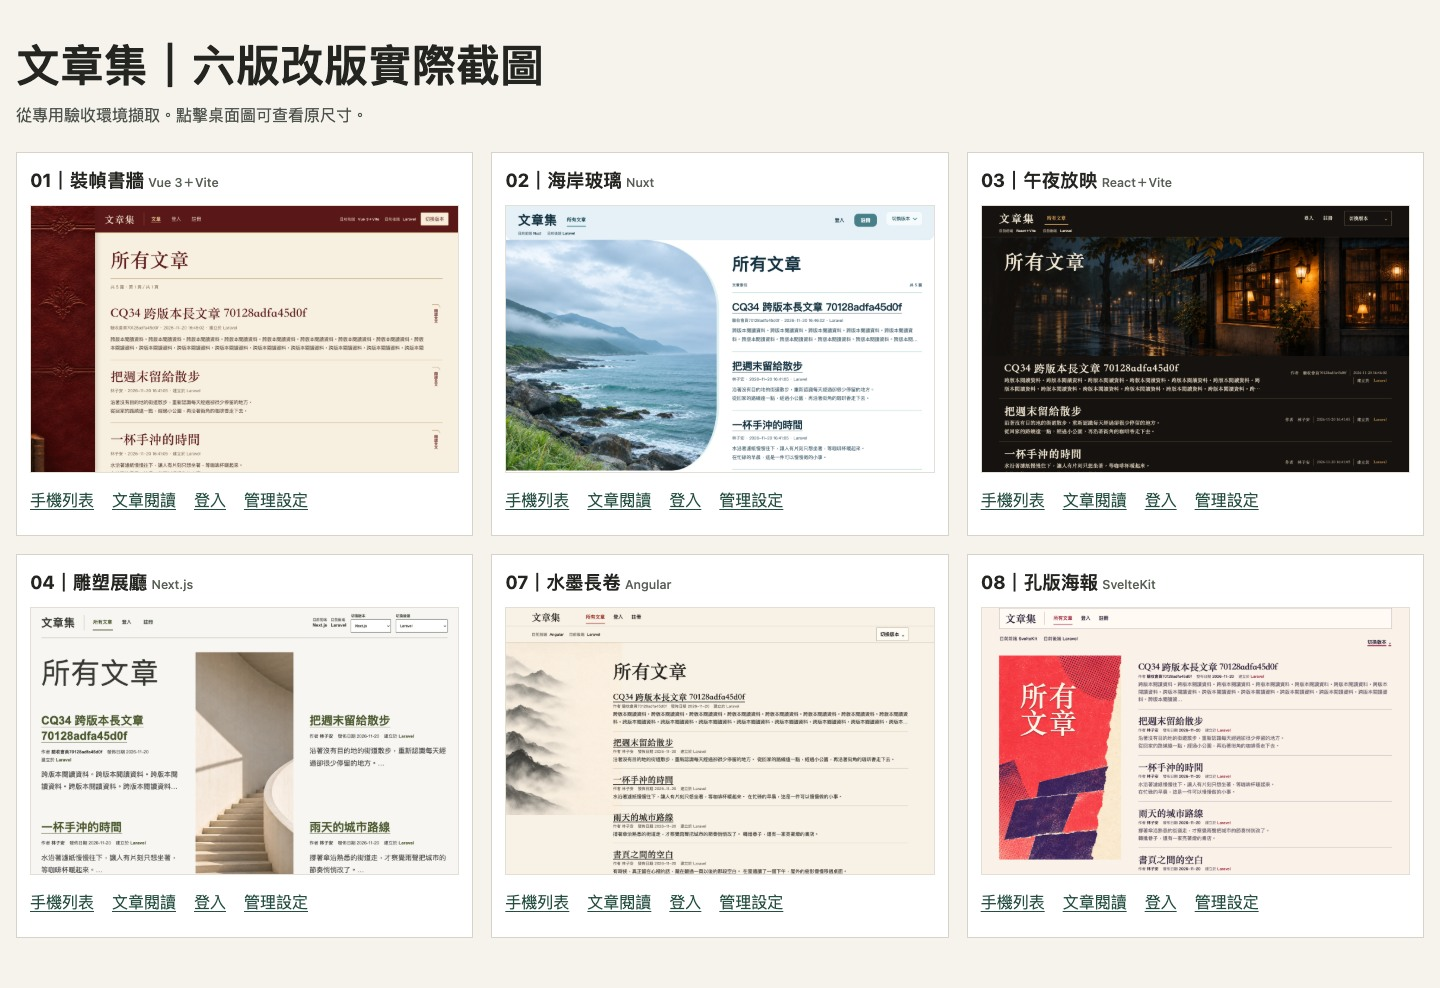
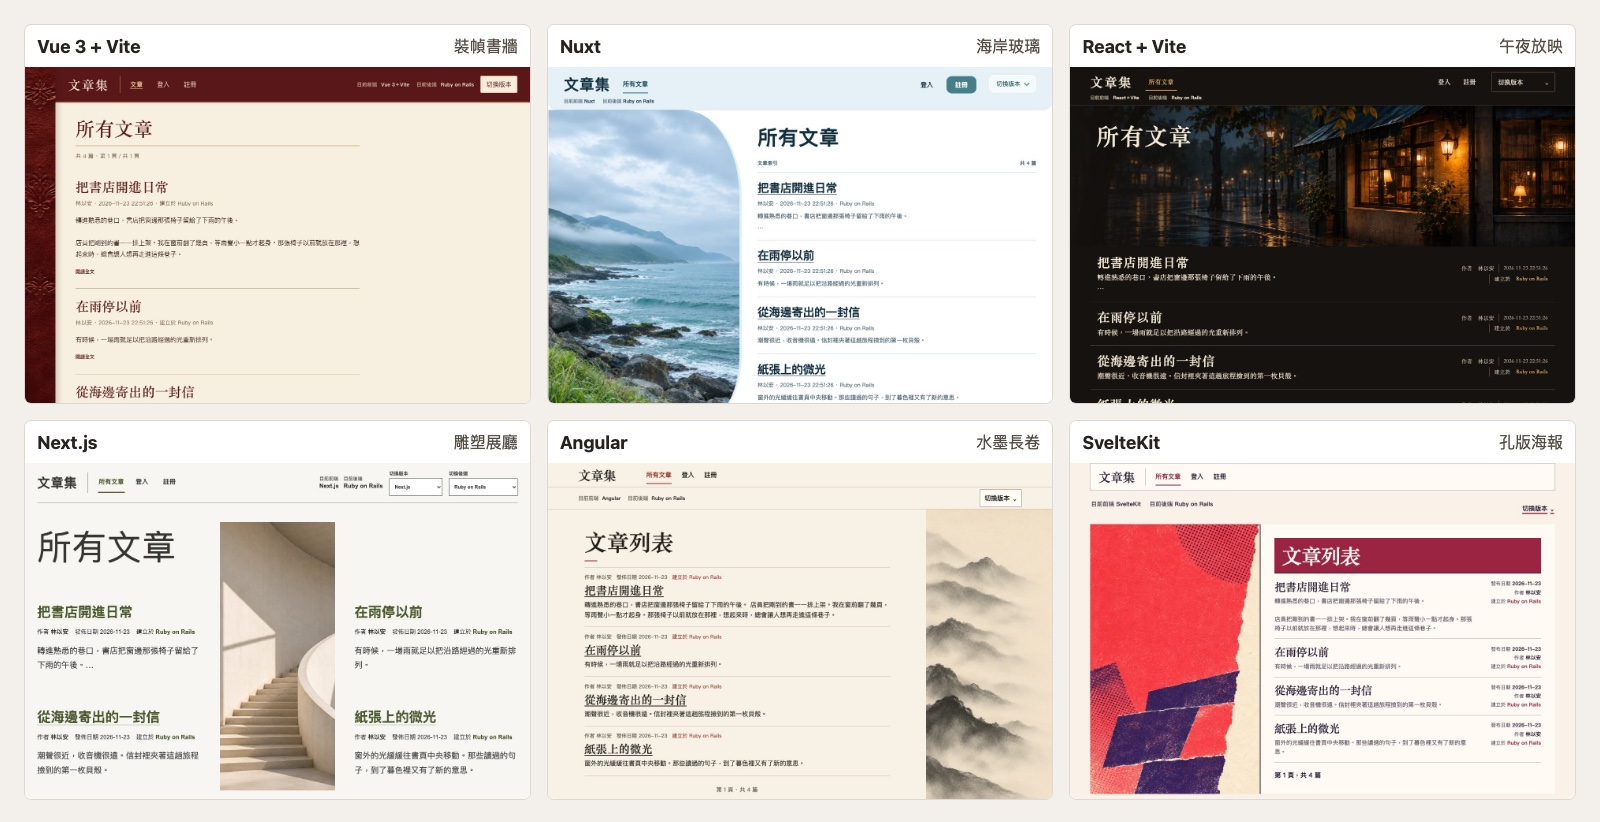
docs: 更新本機展示指南與六版驗證紀錄

diff --git a/README.md b/README.md
@@ -1,10 +1,12 @@
 # 文章集｜AI-workflow-fullstack
 
-一套可在本機操作的會員文章與留言網站，用來比較不同框架如何實作同一套功能。**六種前端與十三種後端可獨立切換、自由搭配，共 78 種組合、19 個版本。** 所有組合透過同一份 API 契約存取同一個 PostgreSQL 資料庫。
+文章集是可在本機操作的會員文章與留言網站，用來比較不同框架如何實作同一套功能。**六種前端與十三種後端可獨立切換，共 78 種搭配。** 所有搭配透過同一份 API 契約讀寫同一個 PostgreSQL 資料庫。
+
+[使用技術](#使用技術) · [本機啟動](#本機啟動) · [如何測試](#如何測試)
 
 ![文章集的六個桌面版文章列表，依序為裝幀書牆、海岸玻璃、午夜放映、雕塑展廳、水墨長卷與孔版海報](docs/images/frontend-overview.jpg)
 
-*六種版型以同一批合成文章在本機展示。*
+*六種版型的實際畫面，使用同一批合成文章。*
 
 ## 主要功能
 
@@ -17,40 +19,38 @@
 
 ### 六種前端
 
-六版使用 JavaScript 或 TypeScript，由 NGINX 提供同一個入口 `http://localhost:8080`。每版有自己的視覺風格與頁面路徑。
+六版共用 Node.js 24.21.0 作為容器建置環境。NGINX 將六版放在同一個入口 `http://localhost:8080` 下。
 
-| 前端 | 視覺風格 | 頁面路徑 |
-| --- | --- | --- |
-| Vue 3 + Vite | 裝幀書牆 | `/vue/` |
-| Nuxt | 海岸玻璃 | `/nuxt/` |
-| React + Vite | 午夜放映 | `/react/` |
-| Next.js | 雕塑展廳 | `/next/` |
-| Angular | 水墨長卷 | `/angular/` |
-| SvelteKit | 孔版海報 | `/sveltekit/` |
+| 前端 | 技術 | 視覺風格 | 頁面路徑 |
+| --- | --- | --- | --- |
+| Vue 3 + Vite | JavaScript、Vue 3 單檔元件、Vite | 裝幀書牆 | `/vue/` |
+| Nuxt | JavaScript、Vue 3、Nuxt 4 | 海岸玻璃 | `/nuxt/` |
+| React + Vite | JavaScript、JSX、React 19、Vite | 午夜放映 | `/react/` |
+| Next.js | JavaScript、JSX、React 19、Next.js 16 App Router | 雕塑展廳 | `/next/` |
+| Angular | TypeScript、Angular 21、Angular CLI | 水墨長卷 | `/angular/` |
+| SvelteKit | JavaScript、Svelte 5、SvelteKit 2、Vite、Node adapter | 孔版海報 | `/sveltekit/` |
 
 ### 十三種後端
 
-| 後端 | 語言或執行環境 | API 基底位址 |
+| 後端 | 語言與容器執行環境 | API 基底位址 |
 | --- | --- | --- |
-| Laravel | PHP | `http://localhost:8081` |
-| Symfony | PHP | `http://localhost:8082` |
-| ASP.NET Core Controllers | C# | `http://localhost:8083` |
-| Django | Python | `http://localhost:8084` |
-| Flask | Python | `http://localhost:8085` |
-| FastAPI | Python | `http://localhost:8086` |
-| Gin | Go | `http://localhost:8087` |
-| Echo | Go | `http://localhost:8088` |
-| Fiber | Go | `http://localhost:8089` |
-| Express | Node.js | `http://localhost:8090` |
-| Fastify | Node.js | `http://localhost:8091` |
-| NestJS | Node.js | `http://localhost:8092` |
-| Ruby on Rails | Ruby | `http://localhost:8093` |
+| Laravel | PHP 8.4 | `http://localhost:8081` |
+| Symfony | PHP 8.4 | `http://localhost:8082` |
+| ASP.NET Core Controllers | C#、.NET 10 | `http://localhost:8083` |
+| Django | Python 3.13 | `http://localhost:8084` |
+| Flask | Python 3.13 | `http://localhost:8085` |
+| FastAPI | Python 3.13 | `http://localhost:8086` |
+| Gin | Go 1.26 | `http://localhost:8087` |
+| Echo | Go 1.26 | `http://localhost:8088` |
+| Fiber | Go 1.26 | `http://localhost:8089` |
+| Express | JavaScript、Node.js 24 | `http://localhost:8090` |
+| Fastify | JavaScript、Node.js 24 | `http://localhost:8091` |
+| NestJS | JavaScript、Node.js 24 | `http://localhost:8092` |
+| Ruby on Rails | Ruby 4.0 | `http://localhost:8093` |
 
 ### 共用資料庫與 API
 
-六個前端透過目前選用的後端讀寫資料。十三種後端遵守相同的 22 個 API 操作，讀寫**同一個 PostgreSQL 資料庫**。帳號、文章、留言與登入鎖定設定因此在各版本共用。資料庫結構由集中維護的版本化 SQL 更新。 [系統架構](docs/architecture.md) · [API 文件](docs/article-api.md)
-
-本機環境使用 Docker Compose，驗證涵蓋框架測試、HTTP／PostgreSQL 契約測試與 Playwright／Chrome 瀏覽器測試。
+Docker Compose 啟動六個前端、十三個後端、NGINX 1.30 與 PostgreSQL 18。十三個後端提供相同的 22 個 API 操作，共用帳號、文章、留言與登入鎖定設定。資料庫結構由集中維護的版本化 SQL 更新。 [系統架構](docs/architecture.md) · [API 文件](docs/article-api.md)
 
 ## 前後端如何切換
 
@@ -59,7 +59,7 @@
 | 操作 | 切換後的行為 |
 | --- | --- |
 | **換前端** | 同一分頁會開啟對應頁面，並保留目前後端與有效登入。登入期限沿用原到期時間。例如 `/vue/articles/101` 切到 Nuxt 後會開啟 `/nuxt/articles/101`。 |
-| **換後端** | 保留目前前端，清除舊憑證並前往登入頁。可用原帳號重新登入，在權限允許時回到原目標頁。各後端只接受自己簽發的 JWT，既有的登入鎖定也會在新後端生效。 |
+| **換後端** | 保留目前前端並清除舊憑證。接下來要使用會員或管理功能時，請用原帳號重新登入。各後端只接受自己簽發的 JWT，既有的登入鎖定也會在新後端生效。 |
 
 ### 切換限制
 
@@ -70,42 +70,36 @@
 
 [前後端選擇與頁面對照](docs/user-guide.md#選擇畫面與後端)
 
-## 本機啟動、停止與重設
+## 本機啟動
 
-以下指令在專案根目錄執行。需要 macOS、Linux 或 Windows WSL2 的 POSIX shell、已啟動的 Docker daemon、支援 `docker compose up --wait` 的 Compose plugin，以及主機上的 `sh` 和 OpenSSL；本次只在 macOS 實測，其他平台尚未確認。首次建置需要網路下載容器映像與套件，且本機連接埠 `8080`–`8093` 需可使用。
-
-先取得專案，再進入專案根目錄：
-
-```sh
-git clone https://github.com/a9088391/AI-workflow-fullstack.git
-cd AI-workflow-fullstack
-```
-
-主機不需安裝各語言的 SDK，也不需取得作者的備份或金鑰。首次設定會為這個本機安裝建立自己的資料庫設定、應用金鑰及後端金鑰，並提示輸入管理員 Email、暱稱與密碼；密碼須為 4–16 碼 ASCII 英文字母或數字，沒有預設管理員帳密。空資料庫一開始沒有文章，管理員登入後可自行發文，或註冊一般會員。既有安裝請保留原有 `.env` 與 `.local/keys/`，不要刪除它們來強制產生新金鑰。
+準備 Git、`sh`、OpenSSL、已啟動的 Docker，以及支援 `docker compose up --wait` 的 Compose plugin。請預留本機連接埠 `8080`–`8093`，首次建置需要網路下載映像與套件。主機只需上述工具，語言環境由容器提供。啟停流程已在 macOS 實測，Linux 與 Windows WSL2 待實機驗證。
 
 ### 首次啟動
 
 ```sh
+git clone https://github.com/a9088391/AI-workflow-fullstack.git &&
+cd AI-workflow-fullstack &&
 ./ops/setup.sh
 ```
 
-依終端提示建立第一位管理員。設定完成後開啟 [本機展示站](http://localhost:8080/)，預設使用 Vue 3 + Vite 與 Laravel。一般會員可從畫面註冊。
+第一次會建立本機資料庫設定與金鑰，並提示輸入管理員 Email、暱稱及 4–16 碼 ASCII 英數密碼。等指令完成後開啟 [本機展示站](http://localhost:8080/)，預設是 Vue 3 + Vite 搭配 Laravel。空資料庫可直接註冊一般會員，也可以用剛建立的管理員登入並發表第一篇文章。
 
-### 停止與重新啟動
+### 日常啟停與狀態查詢
+
+以下指令各自從專案根目錄執行。
 
 ```sh
+# 啟動完整展示站並等待服務就緒
+./ops/start.sh
+
+# 列出所有使用中的前後端與健康狀態
+docker compose --profile '*' ps
+
+# 停止並移除容器與 Compose 網路，保留資料卷與金鑰
 ./ops/stop.sh
 ```
 
-`stop.sh` 會停止並移除本機容器及 Compose 網路，保留 PostgreSQL 資料卷與本機金鑰。需要繼續使用時，執行日常啟動指令。
-
-```sh
-./ops/start.sh
-```
-
-一般入口會等待 DB、SQL、十三個後端、六個前端及 NGINX 就緒。Rails 故障時，可執行 `./ops/start.sh --without-rails` 暫用十二後端模式；修復後再執行 `./ops/start.sh` 恢復十三版。此模式不重設資料或金鑰，SQL 版本與 checksum 保護維持不變。
-
-需要查看服務狀態時可執行 `docker compose ps`。
+既有安裝請保留 `.env` 與 `.local/keys/`。只開發 API 時可執行 `./ops/start.sh --backend-only`。Rails 暫時不可用時，執行 `./ops/start.sh --without-rails` 啟動其餘十二個後端與六版前端，修復後用一般啟動指令恢復十三版。
 
 ### 重設管理員密碼
 
@@ -121,33 +115,69 @@ unset admin_password admin_email
 
 ## 如何測試
 
-### 手動驗證
+### 瀏覽器手動驗證
 
-1. 開啟展示站，註冊一般會員並登入。發表文章後進入文章詳情，新增一則留言。
+1. 開啟本機展示站，註冊測試會員並登入。發表文章後進入文章詳情，新增一則留言。
 2. 留在同一分頁，從工具列切換前端，確認同一篇文章、留言與登入狀態都能讀取。
 3. 切換後端，確認畫面要求重新登入。登入後核對原文章與留言。
-4. 使用首次設定建立的管理員登入，開啟會員管理與登入鎖定設定，確認可以搜尋會員及讀取目前的鎖定設定。
+4. 登出測試會員後，用首次設定建立的管理員登入。開啟會員管理與登入鎖定設定，確認可以搜尋會員及讀取目前的設定。
 
 [完整操作指南](docs/user-guide.md)
 
-### 自動化測試
+### 六版前端測試與建置
 
-前端套件各有獨立鎖檔及測試指令。使用對應 Dockerfile 的 Node.js 版本。下列命令會安裝 Vue 版依賴、執行測試並建置。
+在主機安裝 Node.js 24.21.0 與 npm，從專案根目錄執行。各版的 `npm ci` 會依該版鎖檔安裝套件。迴圈會在第一個失敗的版本停止。
 
 ```sh
 (
-  cd frontend/vue &&
-  npm ci &&
-  npm test &&
-  npm run build
+  set -e
+  for frontend_dir in vue nuxt react next angular sveltekit; do
+    printf '\n=== %s ===\n' "$frontend_dir"
+    (cd "frontend/$frontend_dir" && npm ci && npm test && npm run build) || exit 1
+  done
 )
 ```
 
-專案根目錄可用 Python 3.13 執行驗收工具的離線自測。
+也可以只進入要驗證的版本，例如在 `frontend/vue` 執行 `npm ci && npm test && npm run build`。Nuxt 與 Angular 可另外執行 `npm run typecheck`，SvelteKit 則執行 `npm run check`。
+
+### 後端健康檢查與驗收工具自測
+
+完整展示站啟動後，可從專案根目錄檢查十三個後端的 `/up`：
+
+```sh
+(
+  port=8081
+  while [ "$port" -le 8093 ]; do
+    curl -fsS --max-time 5 -o /dev/null "http://localhost:$port/up" || exit 1
+    printf '%s OK\n' "$port"
+    port=$((port + 1))
+  done
+)
+```
+
+有 Python 3.13 時，可從專案根目錄執行下列離線自測。這些指令驗證測試工具與啟停腳本的模擬流程。
 
 ```sh
 python3 -B ops/tests/cq34_http.py --self-test
+python3 -B ops/tests/cq34_http.py --preset rails05 --self-test
 python3 -B -m unittest discover -s ops/tests -p 'perf01_test.py'
+sh ops/tests/rails05_start.sh
 ```
 
-涉及 HTTP 寫入、PostgreSQL 或跨版本的整合測試使用獨立的 Compose 專案與資料卷。 [開發與測試指南](docs/developer-guide.md) · [驗證紀錄](docs/verification.md)
+### 十三版後端 HTTP 整合測試
+
+使用 Python 3.13，先依開發指南準備並啟動 `.local/rails05-fixture` 的獨立 Compose 專案，使用專用資料卷與金鑰。這組測試會寫入合成資料，並使用 `8080`–`8093`。若展示站占用連接埠，先從展示站的專案根目錄執行 `./ops/stop.sh`，或改在另一個環境測試。準備完成後，從原專案根目錄執行下列命令，環境檢查通過後才會開始回歸。 [測試環境設定](docs/developer-guide.md#rails05-十三後端-http-回歸)
+
+```sh
+(
+  set -e
+  repo_root=$(pwd -P)
+  cd "$repo_root/.local/rails05-fixture"
+  export COMPOSE_PROJECT_NAME=rails05_test
+  export COMPOSE_FILE=compose.yaml:.local/rails05-compose.yaml
+  python3 -B "$repo_root/ops/tests/cq34_http.py" --preset rails05 --guard
+  python3 -B "$repo_root/ops/tests/cq34_http.py" --preset rails05 --all
+)
+```
+
+[開發與測試指南](docs/developer-guide.md) · [已驗證的版本與範圍](docs/verification.md)

diff --git a/docs/verification.md b/docs/verification.md
@@ -2,6 +2,19 @@
 
 本專案以本機展示為驗收目標。以下結果來自專用的 Docker Compose 環境與合成資料。驗收分為框架測試、HTTP／PostgreSQL 契約、瀏覽器操作及查詢效能。
 
+## 六版前端改版交付驗證
+
+[提交 `9af4c1f`](https://github.com/a9088391/AI-workflow-fullstack/commit/9af4c1f7986963ab72a11d0fd393bc9e0dc764a1) 已推送至 `main`。驗證使用獨立的 Docker Compose 專案、資料卷與合成帳號，並從同一份交付來源建置前後端。
+
+| 範圍 | 結果 |
+| --- | --- |
+| 服務與前端測試 | DB、十三個後端、六個前端與 NGINX 共 21 個服務健康，SQL 套用九支變更。六版正式建置成功，前端共 492 項套件測試通過，Nuxt 與 Angular 型別檢查及 SvelteKit 檢查通過。 |
+| 六版瀏覽器功能 | 在 Chrome 檢查 90 個頁面與 320、768、1440 CSS px 三種寬度。各版實際操作註冊、登入與登出、文章與留言的新增／編修／下架／恢復、個人列表、會員搜尋與停用／恢復、鎖定倒數與設定；另驗證分頁、過期版本保留草稿與設定讀回。 |
+| 十三版 API | 22 種操作共通過 1,383 項 HTTP 檢查，涵蓋權限、版本衝突、資料讀回及 156 組有方向的跨後端驗證。 |
+| 78 種前後端搭配 | 逐一驗證連線、登入與共用文章、留言讀取。同一分頁切前端時保留登入與原到期時間，切後端時重新登入。 |
+
+本輪瀏覽器驗證使用 Chrome 與調整畫面寬度，其他瀏覽器、實體裝置與公開部署仍在本次紀錄範圍之外。啟停、故障隔離及持久化的既有驗證見後面的乾淨安裝與 Rails05 紀錄。
+
 ## 乾淨安裝交付驗證
 
 Main 以 source commit `1dff692ee4f707341114a1566527396f275ae716` 建立乾淨 tracked-source context，使用獨立 Compose project 與合成資料，在 macOS 完成首次安裝、真 UI 操作及停止／重啟驗證。此紀錄不代表完整第 05 票整合套件已重跑。
